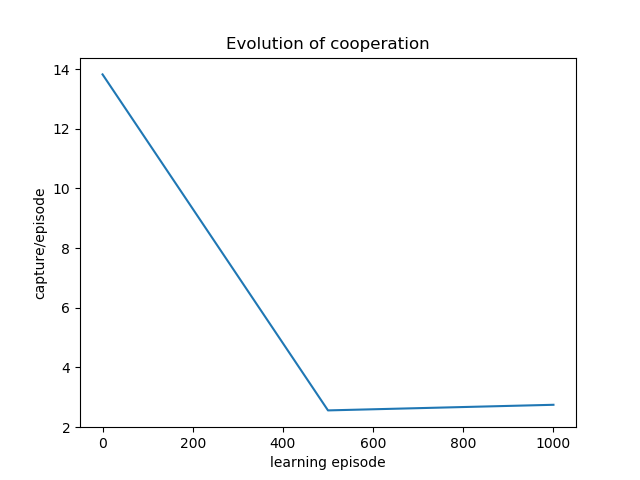
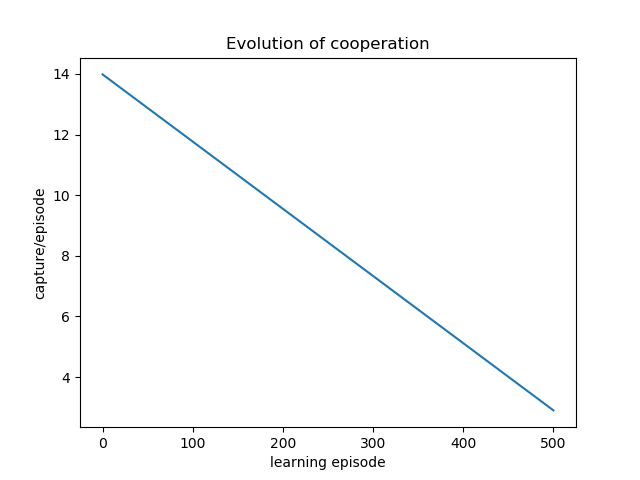
add multiprocessing test and json save

diff --git a/main.py b/main.py
@@ -1,13 +1,14 @@
-#!/anaconda3/bin python3
-
 import os
 import sys
+import json
 import copy
 import random
 import argparse
 import numpy as np
 import matplotlib.pyplot as plt
 from statistics import mean
+from multiprocessing import Process, Manager
+from itertools import repeat
 
 from coordination_graph import CoordinationGraph
 from rules_generator import rules_generator
@@ -192,15 +193,15 @@ def test_mode(n_episode, n_run, grid, verbose=False, size_interval=500):
             graph.add_rule(rule)
 
         
-        #if verbose:
-         #   print("time to test !")
+        if verbose:
+            print("time to test !")
 
         times = []  # store capture time for each tests in a run
-        #time = make_capture_test(graph, initial_states, grid, verbose)
-        #times.append(time) 
-        #if verbose:
-         #   print("Test results :")
-          #  print("mean capture time : {}".format(time))
+        time = make_capture_test(graph, initial_states, grid, verbose)
+        times.append(time) 
+        if verbose:
+            print("Test results :")
+            print("mean capture time : {}".format(time))
 
         for i in range(n_interval):
             graph = run_episodes(size_interval, grid, graph, verbose, offset=size_interval*i)
@@ -220,15 +221,17 @@ def test_mode(n_episode, n_run, grid, verbose=False, size_interval=500):
 
     # average the results over the runs
     avg = [float(sum(col))/len(col) for col in zip(*run_times)]
-    print(avg)
     episode = np.arange(0, n_episode + size_interval, size_interval).tolist()
-    print(episode)
 
     plt.plot(episode, avg);
     plt.xlabel("learning episode")
     plt.ylabel("capture/episode")
     plt.title("Evolution of cooperation")
     plt.savefig('test.png')
+
+    data = {"avg": avg, "episode": episode}
+    with open('data.json', 'w') as outfile:
+         json.dump(data, outfile)
 
 
 def run_episodes(n_episode, grid, graph, verbose=False, offset=0):
@@ -311,15 +314,10 @@ def make_capture_test(graph, initial_states, grid, verbose=False):
     agents = [Agent(0, graph, n_actions[0]), Agent(1, graph, n_actions[1])]
     prey = Prey(5)
 
-    # test 5 times for all random initial states
-    test_count = 1
-    for i, initial_state in enumerate(initial_states):
-        for j in range(5):
-            game = Game(initial_state, ncol, nrow)
+    def f(capture_times, states):
 
-            if verbose:
-                print("test {}/{}".format(test_count, 5*len(initial_states)))
-            
+        for state in states:
+            game = Game(state, ncol, nrow)
             capture = False
             capture_time = 0
             while not capture:
@@ -337,15 +335,27 @@ def make_capture_test(graph, initial_states, grid, verbose=False):
                 game.play_prey(action)
 
                 capture_time += 1
+
             capture_times.append(capture_time)
 
-            if verbose:
-                sys.stdout.write('\x1b[1A')
-                sys.stdout.write('\x1b[2K')
-                test_count += 1
+    # test 5 times for all random initial states
+    args = [x for initial_state in initial_states for x in repeat(initial_state, 5)]
+
+    with Manager() as manager:
+        capture_times = manager.list()  # <-- can be shared between processes.
+        processes = []
+        N_PROCESS = 10
+        args_by_process = int(len(args)/N_PROCESS)
+        for i in range(args_by_process):
+            arg = args[(i*args_by_process):((i*args_by_process)+args_by_process)]
+            p = Process(target=f, args=(capture_times,arg)) 
+            p.start()
+            processes.append(p)
+        for p in processes:
+            p.join()
                 
-    mean_capture_time = mean(capture_times)
-    return mean_capture_time
+        mean_capture_time = mean(capture_times)
+        return mean_capture_time
 
 def inv_map(action_to_map):
     for action_id, action in actions_map.items():
